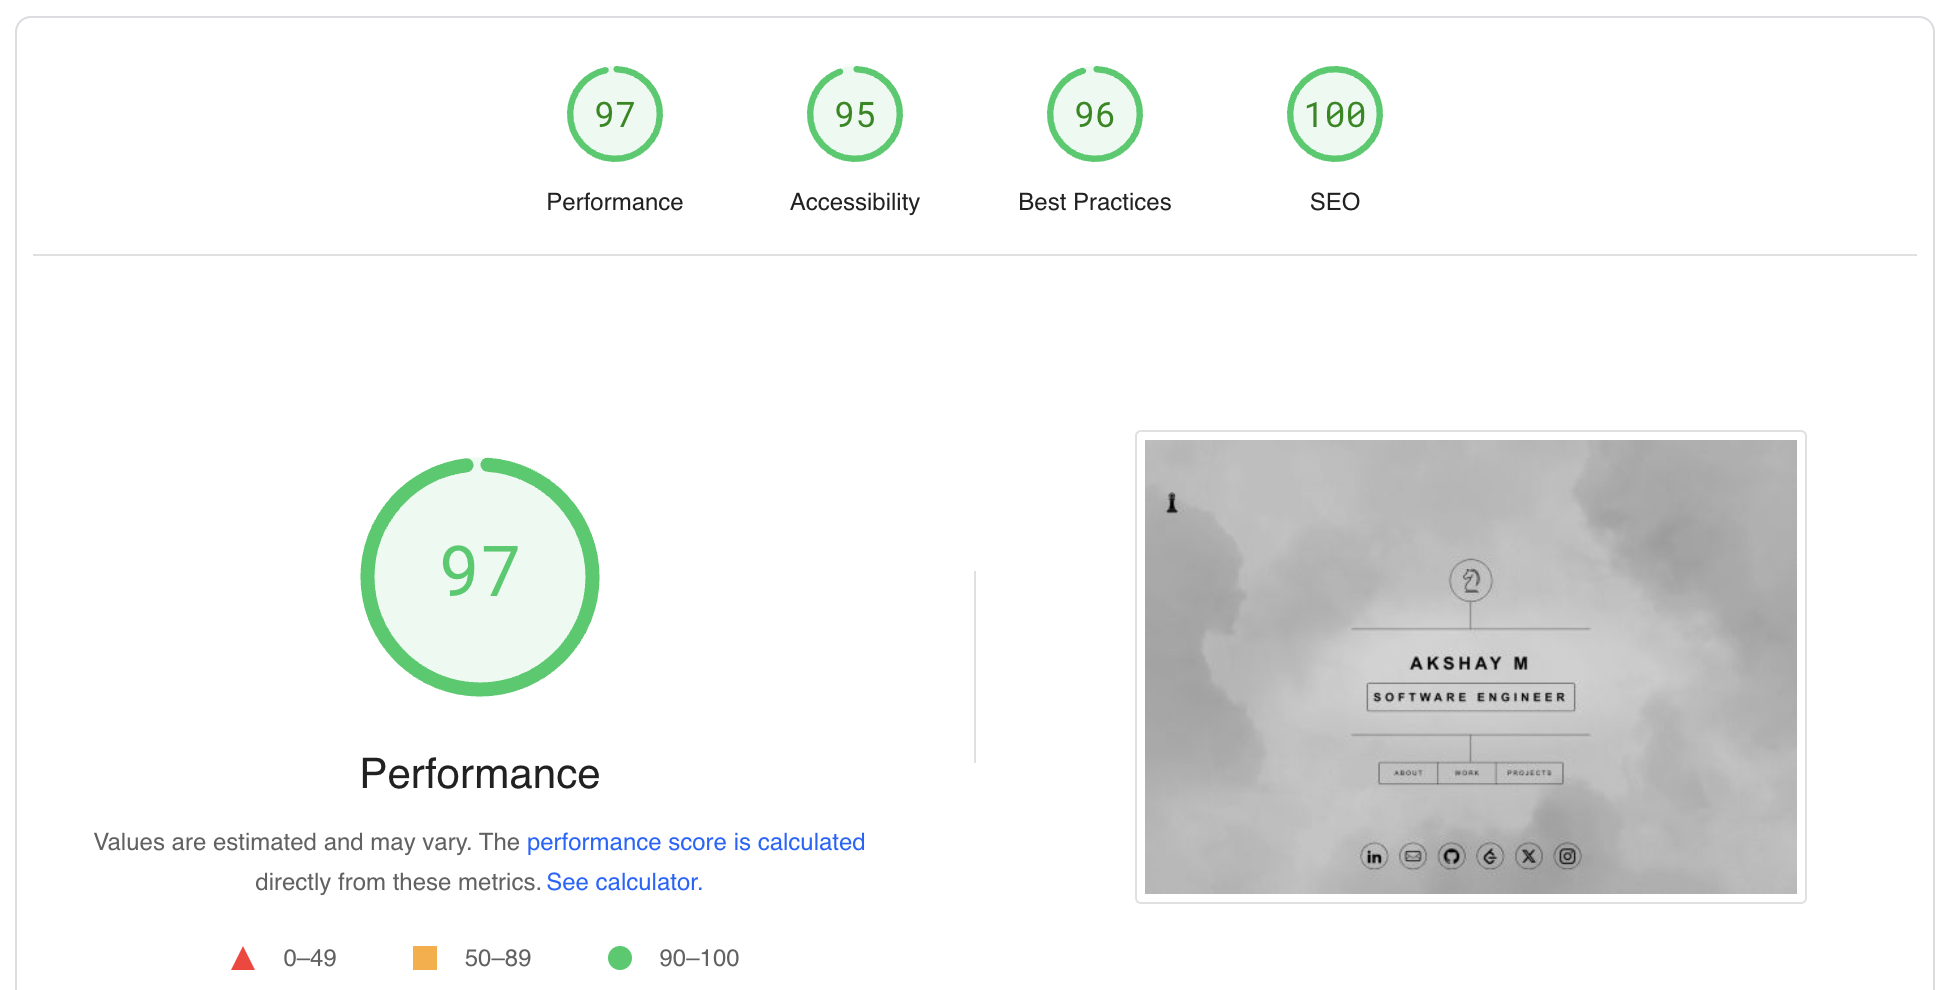
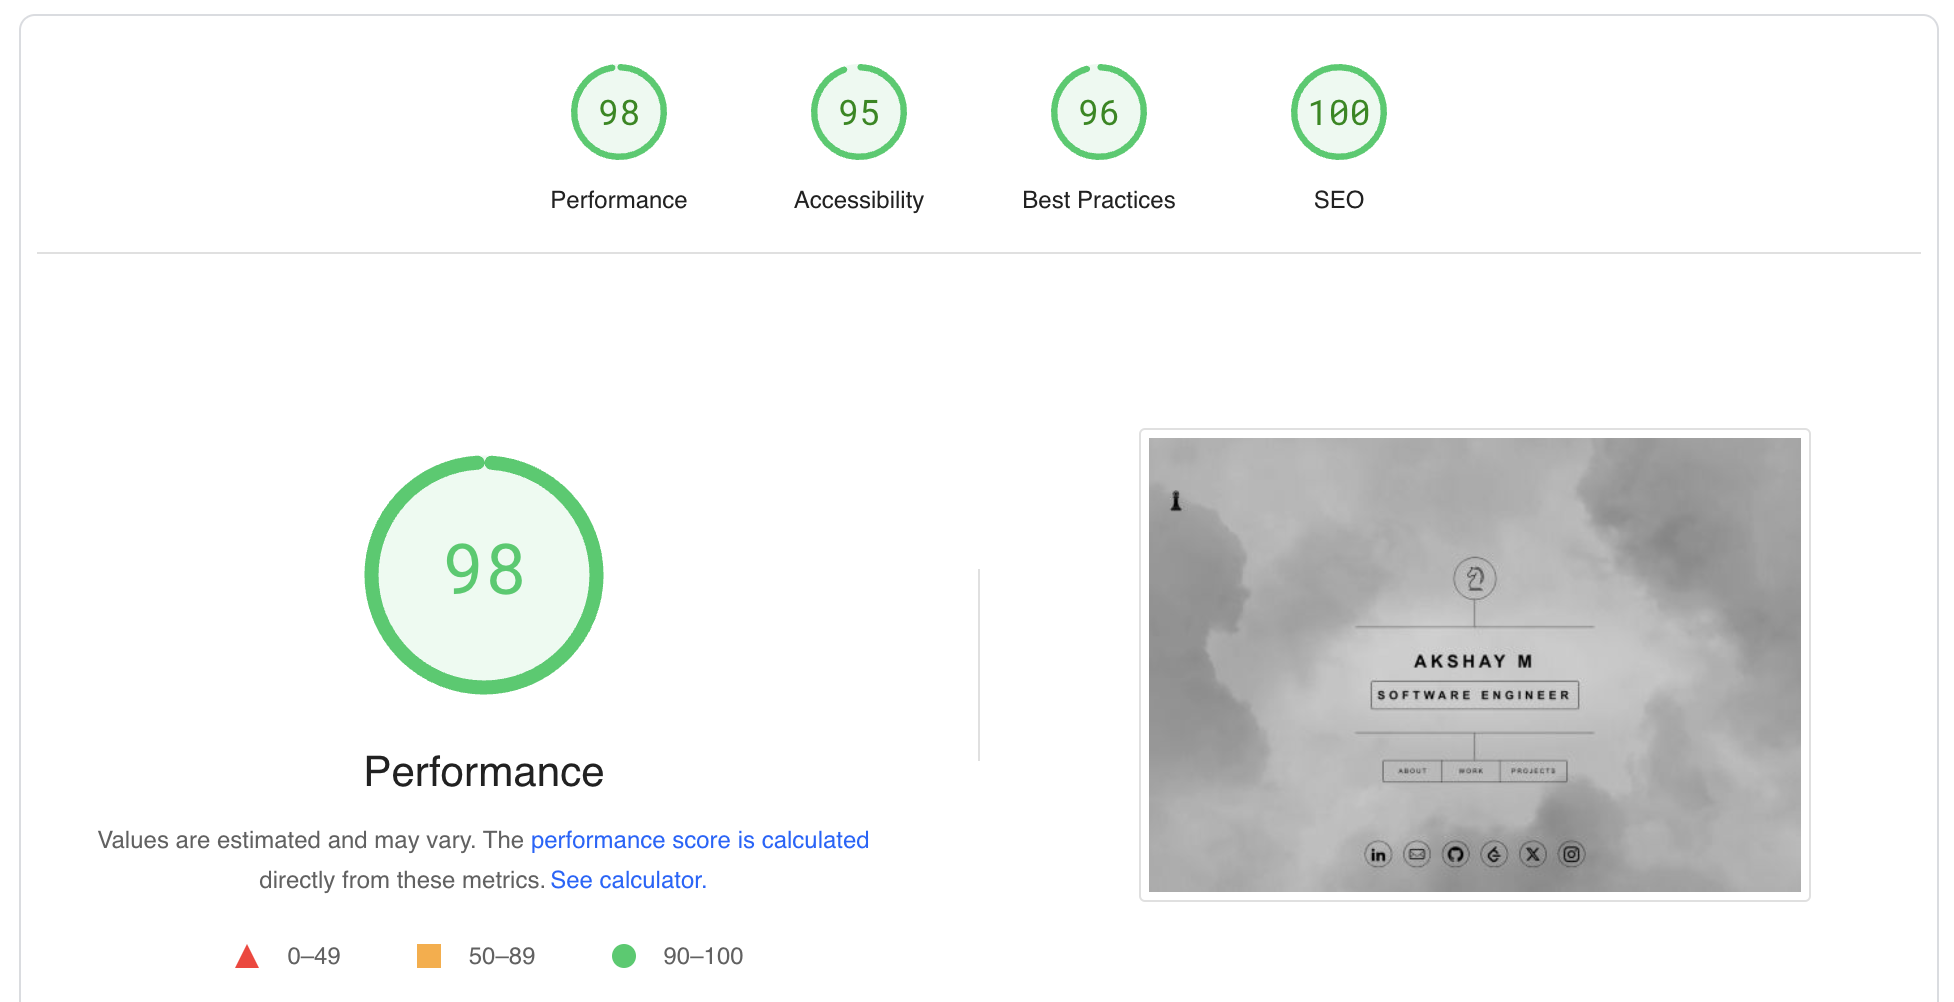
added pagespeed data

diff --git a/README.md b/README.md
@@ -9,7 +9,7 @@ Welcome to my personal portfolio project! This portfolio showcases my projects, 
 - Work Experience Section: Highlights my current and previous work experiences.
 - Social Handles: Links to my social handles
 - Light and Dark modes
-- Fast :zap: : Scores 95 on [Google PageSpeed Mobile](https://pagespeed.web.dev/analysis/https-akshayxml-github-io/0x47s7093y?form_factor=mobile) test and 97 on [Desktop](https://pagespeed.web.dev/analysis/https-akshayxml-github-io/0x47s7093y?form_factor=desktop)!
+- Fast :zap: : Scores 96 on [Google PageSpeed Mobile](https://pagespeed.web.dev/analysis/https-akshayxml-github-io/0x47s7093y?form_factor=mobile) test and 98 on [Desktop](https://pagespeed.web.dev/analysis/https-akshayxml-github-io/0x47s7093y?form_factor=desktop)!
 
 ## Technologies
 - Frontend: React, Gatsby
